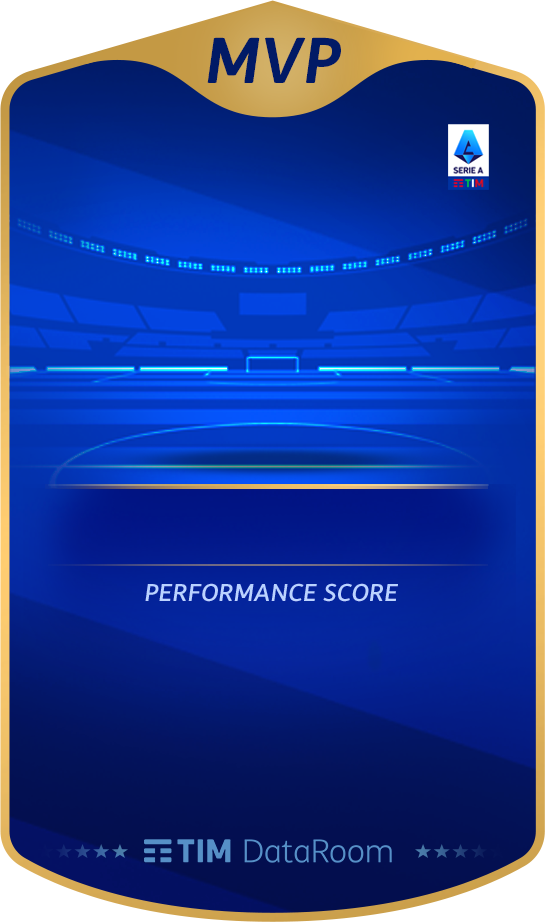
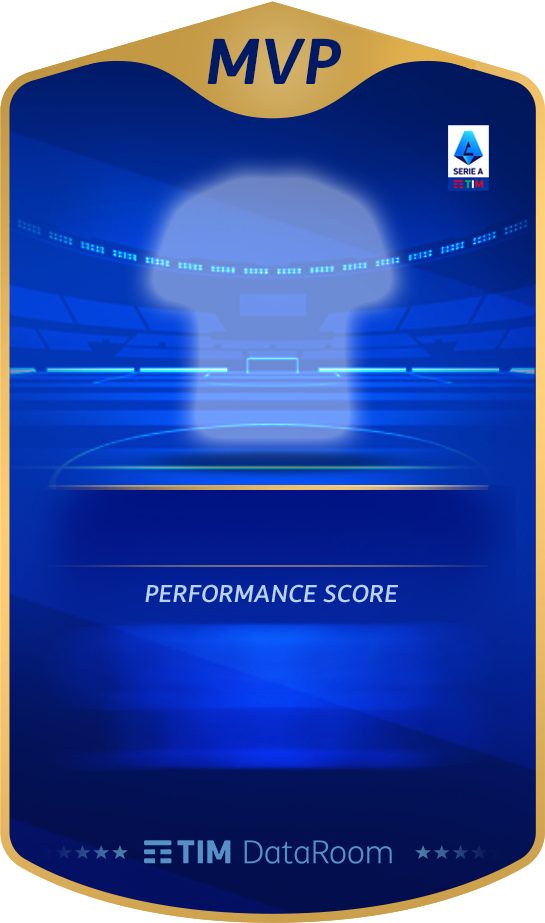
fix mvp style

diff --git a/skins/mvp/index.htm b/skins/mvp/index.htm
@@ -75,21 +75,20 @@
             width: 545px;
             height: 922px;
             padding: 20px;
-            background: url('../_lib/images/MVP_test.png');
+            background: url('../_lib/images/MVP.png');
             font-family: TIMSans;
             color: #FFFFFF;
         }
 
         .performance-score {
             position: absolute;
-    top: 580px;
+    top: 564px;
     left: 169px;
     width: 94px;
     text-align: center;
     font-size: 180px;
     font-family: TIMSans;
     /* font-style: italic; */
-    font-weight: bold;
         }
 
         .home-away {
@@ -145,7 +144,7 @@
     text-align: center;
     font-size: 120px;
     font-family: TIMSans;
-    font-weight: 500;
+    /* font-weight: 500; */
         }
 
         .player-name {
@@ -154,15 +153,16 @@
     left: 82px;
     width: 380px;
     font-size: 59px;
-    font-weight: 900;
     text-align: center;
     text-transform: uppercase;
+    font-family: 'TIMSans';
+    font-weight: bold;
         }
 
         .score-table {
             position: absolute;
     left: 112px;
-    top: 792px;
+    top: 783px;
     font-size: 24px;
     width: 320px;
     text-align: center;
@@ -229,7 +229,7 @@
 
     // Uncomment to test on localhost after the publish on DEV before the approval in QA and/or PROD
     // environment_widget = "https://api-dev.askdata.com";
-    // environment_widget = "https://api.askdata.com";  // prod  da togliere quando porto su...
+    environment_widget = "https://api.askdata.com";  // prod  da togliere quando porto su...
 
     const teamIdMap = {
         t120: {
